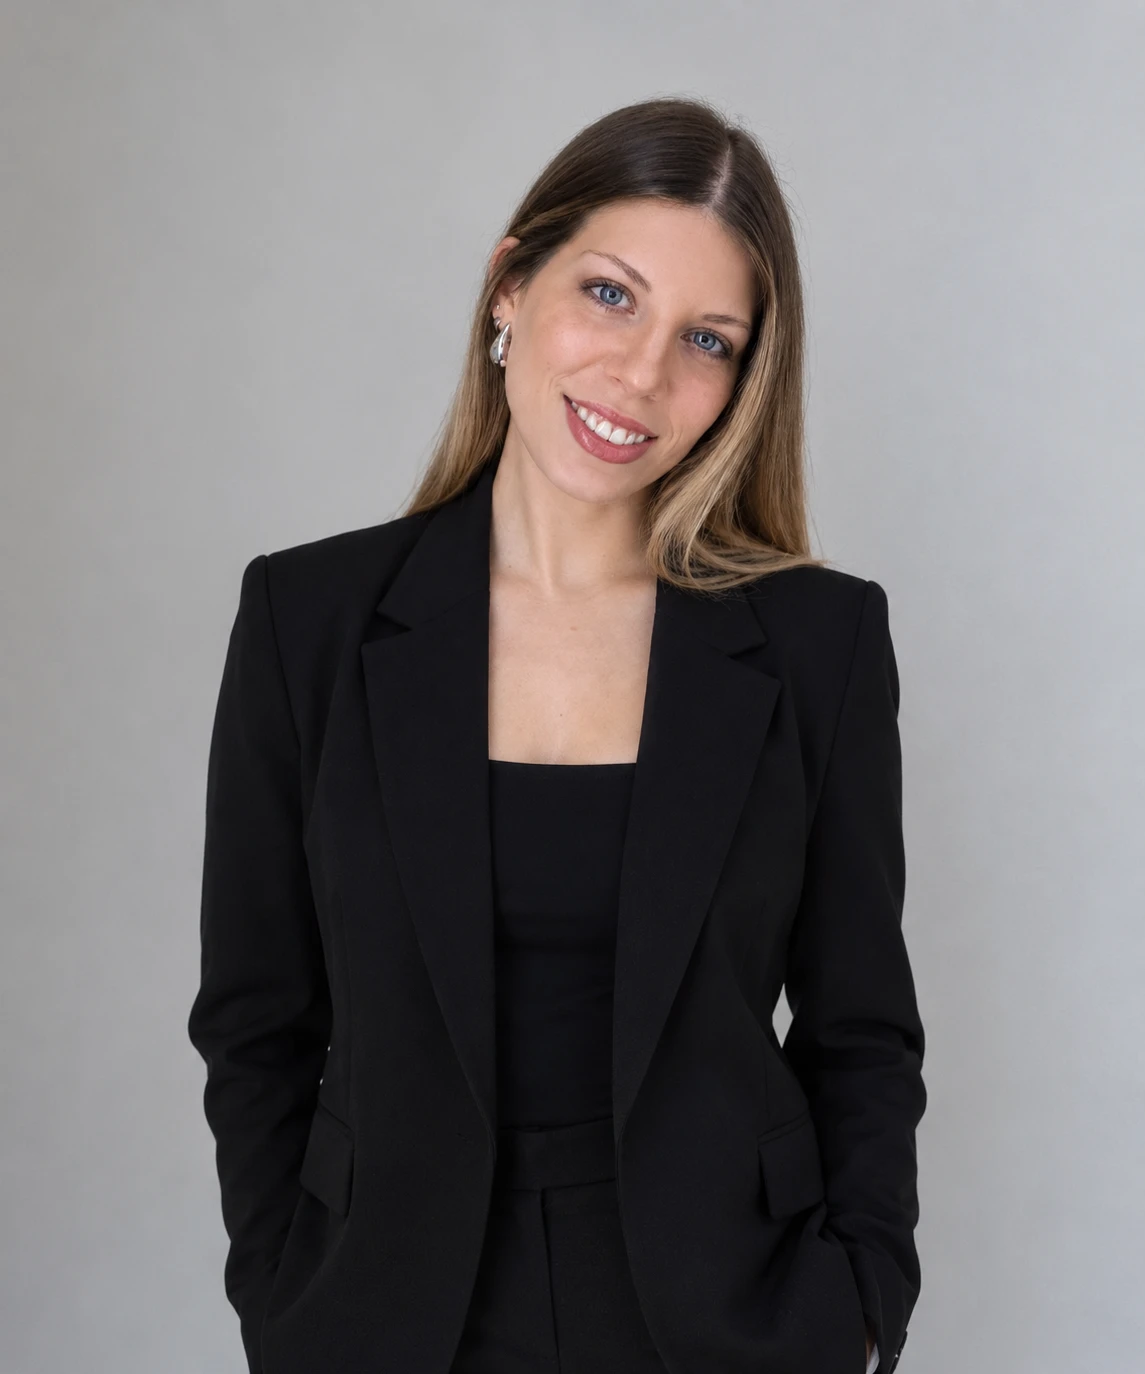
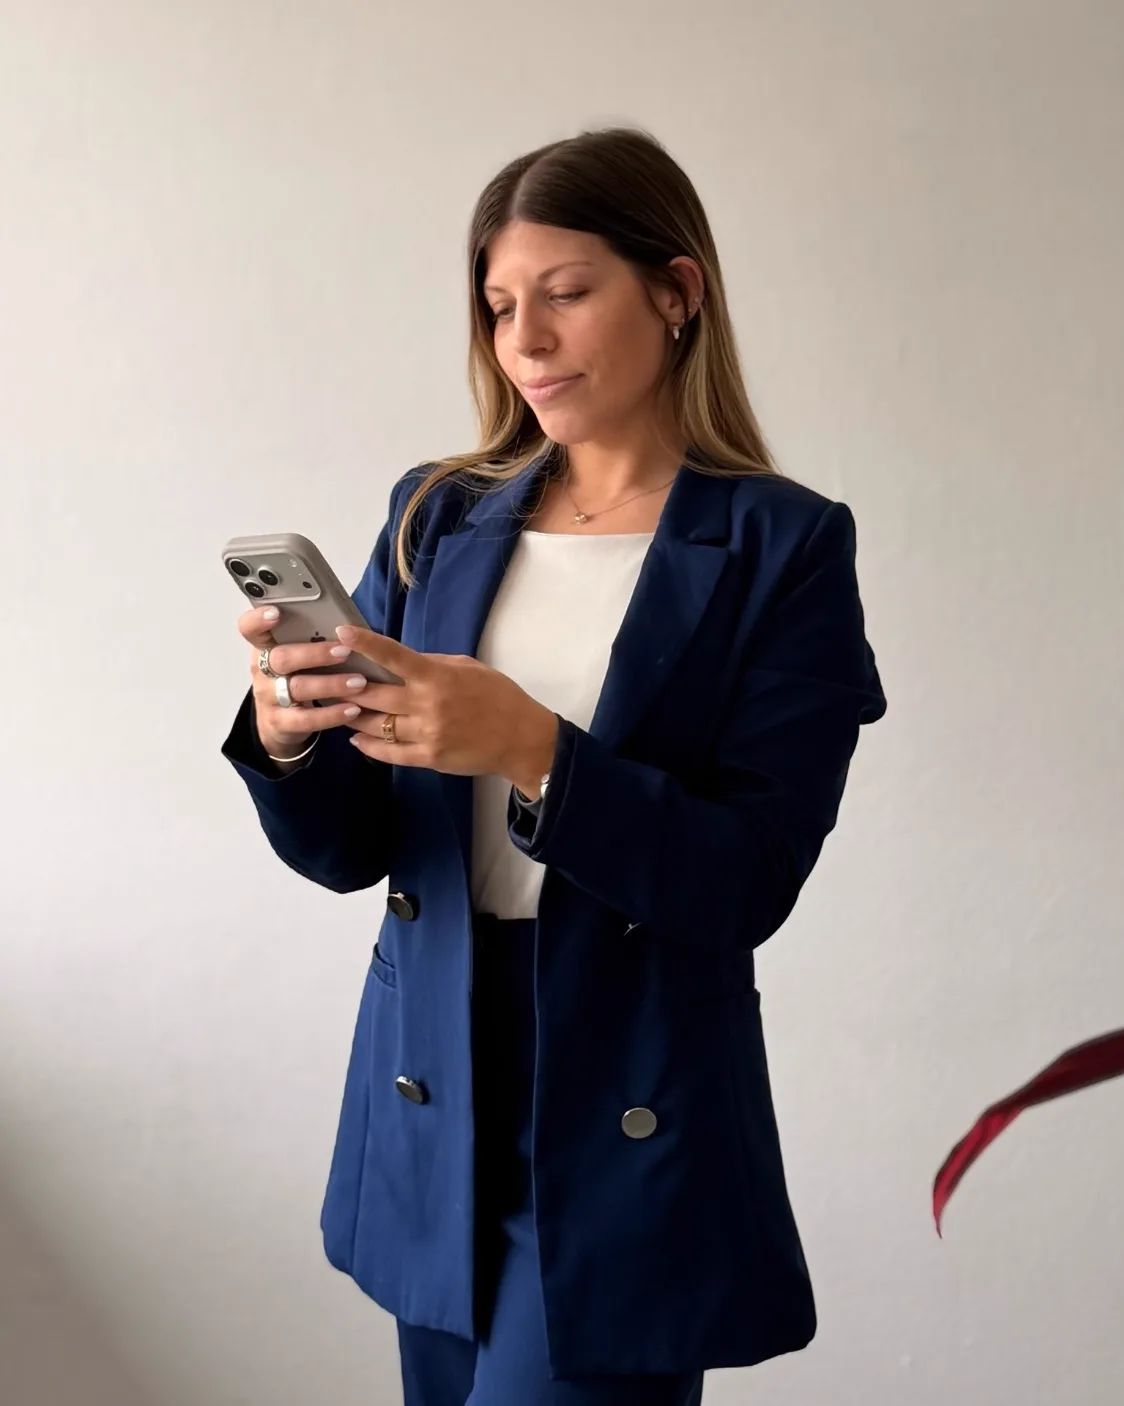
Foto nueva en contacto y "what I do" con I mayúscula

diff --git a/public/index.html b/public/index.html
@@ -131,7 +131,7 @@
 
   /* ---------- proyectos ---------- */
   .work{padding-top:clamp(4rem,2.5rem + 5vw,8rem);padding-bottom:clamp(3rem,2rem + 4vw,6rem)}
-  .sec{font:900 clamp(2.2rem,1rem + 4.6vw,4.6rem)/.95 var(--display);letter-spacing:-.04em;text-transform:lowercase}
+  .sec{font:900 clamp(2.2rem,1rem + 4.6vw,4.6rem)/.95 var(--display);letter-spacing:-.04em}
   .sec::after{content:'.';color:var(--ac)}
   .work-head{display:flex;justify-content:space-between;align-items:flex-end;gap:2rem;flex-wrap:wrap;margin-bottom:clamp(1.6rem,1rem + 2vw,2.6rem)}
   .fstick{position:sticky;top:5rem;z-index:60;display:flex;justify-content:center;margin:0 0 clamp(1.6rem,1rem + 2vw,2.8rem);pointer-events:none}
@@ -202,7 +202,7 @@
   .soc{display:inline-flex;align-items:center;gap:.6rem;padding:1.05rem 1.5rem;border-radius:999px;border:1.5px solid var(--line2);color:var(--pon);font:600 .95rem/1 var(--display);text-decoration:none;transition:gap .3s cubic-bezier(.2,.8,.2,1),background-color .25s,color .25s}
   .soc:hover{gap:.95rem;background:var(--pon);color:var(--pri)}
   .cphoto{position:relative;min-height:28rem;background:#b9b9b9;overflow:hidden}
-  .cphoto img{position:absolute;inset:0;width:100%;height:100%;object-fit:cover;object-position:50% 12%;transition:transform 1.4s cubic-bezier(.2,.8,.2,1)}
+  .cphoto img{position:absolute;inset:0;width:100%;height:100%;object-fit:cover;object-position:50% 25%;transition:transform 1.4s cubic-bezier(.2,.8,.2,1)}
   .cpanel:hover .cphoto img{transform:scale(1.04)}
   @media (max-width:820px){.cpanel{grid-template-columns:minmax(0,1fr)}.cleft{min-width:0}.cphoto{min-height:0;aspect-ratio:4/3.4}.mail{padding:1rem 1.2rem;font-size:.85rem;max-width:100%}}
   .foot{display:flex;justify-content:space-between;gap:1rem;flex-wrap:wrap;margin-top:clamp(2rem,1.5rem + 2vw,3.5rem);padding:1.4rem 0 1.8rem;font:500 .9rem/1.2 var(--sans);color:var(--muted)}
@@ -316,7 +316,7 @@
 
     <section class="work wrap" id="proyectos" aria-labelledby="t-work">
       <div class="work-head rv">
-        <h2 class="sec" id="t-work" data-t="work_h">Proyectos</h2>
+        <h2 class="sec" id="t-work" data-t="work_h">proyectos</h2>
         <p class="label" id="count" aria-live="polite"></p>
       </div>
       <div class="fstick"><div class="fbar" id="fbar2" role="group" aria-label="Filtrar proyectos por tipo de trabajo"></div></div>
@@ -324,7 +324,7 @@
     </section>
 
     <section class="serv wrap" id="servicios" aria-labelledby="t-serv">
-      <h2 class="sec rv" id="t-serv" data-t="serv_h">Qué hago</h2>
+      <h2 class="sec rv" id="t-serv" data-t="serv_h">qué hago</h2>
       <div class="sgrid" id="sgrid"></div>
     </section>
 
@@ -354,7 +354,7 @@
             <div class="cact"><a class="mail" id="mail" href="mailto:lbevilacqua.design@gmail.com">lbevilacqua.design@gmail.com <svg class="i"><use href="#i-ne"/></svg></a><a class="soc" href="https://www.linkedin.com/in/lucianabevilacqua" target="_blank" rel="noopener">LinkedIn <svg class="i"><use href="#i-ne"/></svg></a></div>
           </div>
         </div>
-        <figure class="cphoto"><img src="img/retrato.webp" width="1145" height="1374" alt="Luciana Bevilacqua" loading="lazy" decoding="async"></figure>
+        <figure class="cphoto"><img src="img/retrato.webp" width="1124" height="1406" alt="Luciana Bevilacqua" loading="lazy" decoding="async"></figure>
        </div>
         <div class="foot">
           <span>© <span id="yr">2026</span> Luciana Bevilacqua</span>
@@ -414,8 +414,8 @@
       h1:['Luciana','Bevilacqua'],
       sub:'Marcas, interfaces y piezas visuales pensadas para verse bien y funcionar mejor.',
       f_label:'Filtrá por tipo de trabajo', all:'Todos', clear:'Ver todos', view:'Ver',
-      work_h:'Proyectos', count:['proyecto','proyectos'],
-      serv_h:'Qué hago', more:'Ver proyectos',
+      work_h:'proyectos', count:['proyecto','proyectos'],
+      serv_h:'qué hago', more:'Ver proyectos',
       serv:[
         {f:'branding',c:'#A63A22',h:'Branding e identidad visual',p:'Logos, sistemas de marca y manuales para que cada marca se vea como lo que es.',tg:['Logotipo','Manual de marca','Papelería']},
         {f:'uxui',c:'#A63A22',h:'UX/UI y diseño web',p:'Sitios pensados para que se entiendan a primera vista y mantengan la identidad de la marca en cada pantalla.',tg:['Diseño web','Interfaces','Arquitectura de información']},
@@ -439,8 +439,8 @@
       h1:['Luciana','Bevilacqua'],
       sub:'Brands, interfaces and visual pieces designed to look good and work better.',
       f_label:'Filter by type of work', all:'All', clear:'Show all', view:'View',
-      work_h:'Projects', count:['project','projects'],
-      serv_h:'What I do', more:'View projects',
+      work_h:'projects', count:['project','projects'],
+      serv_h:'what I do', more:'View projects',
       serv:[
         {f:'branding',c:'#A63A22',h:'Branding and visual identity',p:'Logos, brand systems and manuals so every brand looks like what it is.',tg:['Logo','Brand manual','Stationery']},
         {f:'uxui',c:'#A63A22',h:'UX/UI and web design',p:'Websites designed to be understood at first glance and to keep the brand’s identity on every screen.',tg:['Web design','Interfaces','Information architecture']},
